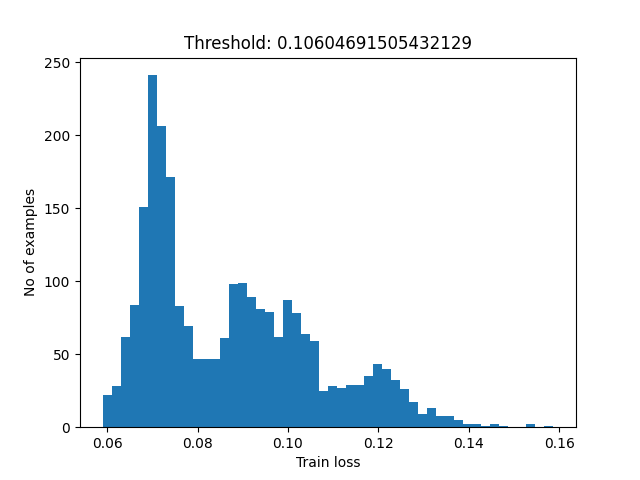
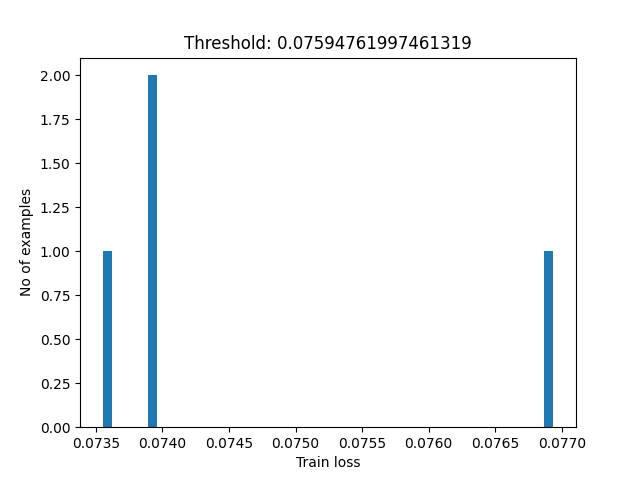
Run across all data

diff --git a/data_processing/data_transformation.py b/data_processing/data_transformation.py
@@ -1,19 +1,27 @@
 import glob
+import random
 from pyspark.sql import SparkSession
 from pyspark.sql.functions import *
 from pyspark.sql.types import FloatType
 from pyspark.ml.feature import MinMaxScaler, VectorAssembler
 from pyspark.ml import Pipeline
 from pyspark.ml.feature import OneHotEncoder, StringIndexer
+from pyspark.ml.functions import vector_to_array
 
-files = [x for x in glob.glob('/data/*.parquet')]
+files = [x for x in glob.glob('/data/raw_data/*.parquet')]
+
+# Shuffle files
+random.shuffle(files)
+
+with open('/data/processed_files.txt', 'w') as f:
+    for line in files[0:6]:
+        f.write(f"{line}\n")
 
 spark = SparkSession.builder \
-    .master("local") \
     .appName("NYC") \
     .getOrCreate()
 
-parDF = spark.read.parquet(files[1])
+parDF = spark.read.parquet(*files[0:6])
 
 keep = ['tpep_dropoff_datetime', 'tpep_pickup_datetime',
         'PULocationID', 'DOLocationID',
@@ -36,7 +44,8 @@ parDF = parDF.filter(parDF['trip_distance'] < 3).filter(parDF['trip_duration'].b
 # Extract hour and weekday from timestamp
 parDF = parDF.withColumn('pickup_hour', hour('tpep_pickup_datetime'))
 parDF = parDF.withColumn('pickup_weekday', dayofweek('tpep_pickup_datetime'))
-# parDF = parDF.withColumn('pickup_month', month('tpep_pickup_datetime'))
+# Parition data by month
+parDF = parDF.withColumn('pickup_month', month('tpep_pickup_datetime'))
 
 # Don't need start/finish timestamp so drop
 drop_cols = ['tpep_dropoff_datetime', 'tpep_pickup_datetime']
@@ -50,7 +59,7 @@ journey_df = parDF.groupBy('journey').count()
 
 # This needs to be saved as a lookup for use during inference
 journey_df = journey_df.withColumn('journeyFreq', format_number(journey_df['count'] / parDF.count(), 8))
-journey_df.write..parquet('/data/journey_counts.parquet')
+journey_df.write.parquet('/data/journey_counts.parquet')
 
 
 # Convert Journey ID to numeric value
@@ -74,7 +83,10 @@ assembler = [VectorAssembler(inputCols=[col], outputCol=col + '_vec') for col in
 scale = [MinMaxScaler(inputCol=col + '_vec', outputCol=col + '_scaled') for col in to_scale]
 pipe = Pipeline(stages=assembler + scale)
 
-parDF = pipe.fit(parDF).transform(parDF)
+scale_model = pipe.fit(parDF)
+scale_model.save("/data/pipelines/scale_pipeline")
+
+parDF = scale_model.transform(parDF)
 
 # Drop unwanted columns
 parDF = parDF.drop(*[col + '_vec' for col in to_scale])
@@ -92,14 +104,18 @@ encoders = [OneHotEncoder(dropLast=False, inputCol=indexer.getOutputCol(),
 assembler = VectorAssembler(inputCols=[encoder.getOutputCol() for encoder in encoders], outputCol="features")
 pipeline = Pipeline(stages=indexers + encoders + [assembler])
 
-parDF = pipeline.fit(parDF).transform(parDF)
+one_hot_model = pipeline.fit(parDF)
+one_hot_model.save("/data/pipelines/one_hot_pipeline")
+
+parDF = one_hot_model.transform(parDF)
+
+row = parDF.select("features").head()
+no_features = [i.size for i in row(0).asDict()][0]
 
 # Drop unwanted columns
 drop_cols_1 = [col + '_indexed' for col in one_hot]
 drop_cols_2 = [col + '_indexed_encoded' for col in one_hot]
 
-# Use weekday to partition data
-one_hot.remove('pickup_weekday')
 drop_cols_3 = drop_cols_1 + drop_cols_2 + to_scale + one_hot
 parDF = parDF.drop(*drop_cols_3)
 
@@ -107,7 +123,7 @@ parDF = parDF.drop(*drop_cols_3)
 firstelement = udf(lambda v: float(v[0]), FloatType())
 
 for c in parDF.columns:
-    if c != 'journeyFreq' and c != 'features' and c != 'pickup_weekday' and c != 'features':
+    if c != 'journeyFreq' and c != 'features' and c != 'pickup_month' and c != 'features':
         parDF = parDF.withColumn(c, firstelement(c))
 
 # One Hot encoding produces sparse vector, convert to array/
@@ -115,8 +131,8 @@ for c in parDF.columns:
 parDF = parDF.withColumn("features", vector_to_array('features'))
 
 # Extract values from array and store as columns
-parDF = parDF.select(*parDF.columns, *[parDF.features[i].cast(FloatType()) for i in range(55)])
+parDF = parDF.select(*parDF.columns, *[parDF.features[i].cast(FloatType()) for i in range(no_features)])
 parDF = parDF.drop('features')
 
 # Write data and partition by weekday
-parDF.write.partitionBy("pickup_weekday").parquet('/data/parDF.parquet')
+parDF.write.partitionBy("pickup_month").parquet('/data/parDF.parquet')

diff --git a/scripts/model_training.py b/scripts/model_training.py
@@ -24,6 +24,20 @@ for directory, subdirlist, filelist in os.walk(root_dir):
 # Split files into train test
 train_file_names, test_file_names = train_test_split(files, test_size=0.2, random_state=42)
 
+test_file_names, val_file_names = train_test_split(test_file_names, test_size=0.2, random_state=42)
+
+with open('data/train_files.txt', 'w') as f:
+    for line in train_file_names:
+        f.write(f"{line}\n")
+
+with open('data/test_files.txt', 'w') as f:
+    for line in test_file_names:
+        f.write(f"{line}\n")
+
+with open('data/val_files.txt', 'w') as f:
+    for line in val_file_names:
+        f.write(f"{line}\n")
+
 
 # Read in files as data generator as too large to fit in memeory
 def data_generator(file_list, b_size=1):
@@ -35,7 +49,7 @@ def data_generator(file_list, b_size=1):
         else:
             file = file_list[i]
             tmp = pd.read_parquet(file.decode('utf-8'), engine='pyarrow')
-            dta = np.asarray(tmp).reshape(len(tmp), 1, 64)
+            dta = np.asarray(tmp).reshape(len(tmp), 1, 56)
             yield dta, dta
             i = i + 1
 
@@ -44,11 +58,11 @@ def data_generator(file_list, b_size=1):
 batch_size = 1
 train_dataset = tf.data.Dataset.from_generator(data_generator, args=[train_file_names, batch_size],
                                                output_types=(tf.float32, tf.float32),
-                                               output_shapes=((None, 1, 64), (None, 1, 64)))
+                                               output_shapes=((None, 1, 56), (None, 1, 56)))
 
 test_dataset = tf.data.Dataset.from_generator(data_generator, args=[test_file_names, batch_size],
                                               output_types=(tf.float32, tf.float32),
-                                              output_shapes=((None, 1, 64), (None, 1, 64)))
+                                              output_shapes=((None, 1, 56), (None, 1, 56)))
 
 latent_dim = 8
 autoencoder = Autoencoder(latent_dim)
@@ -65,7 +79,7 @@ cp = ModelCheckpoint(filepath="autoencoder_fraud.tf",
 early_stop = EarlyStopping(
     monitor='val_loss',
     min_delta=0.001,
-    patience=10,
+    patience=3,
     verbose=1,
     mode='min',
     restore_best_weights=True)

diff --git a/scripts/reconstruction_error.py b/scripts/reconstruction_error.py
@@ -2,28 +2,38 @@ import tensorflow as tf
 import pandas as pd
 import numpy as np
 import matplotlib.pyplot as plt
+import logging
+import random
+
+logging.basicConfig(level=logging.INFO)
+logger = logging.getLogger()
 
 autoencoder = tf.keras.models.load_model('autoencoder_fraud.tf/')
 
-file = '/data/parDF.parquet/pickup_weekday=6/part-00002-63bfa723-e7d3-4d13-9320-40b06dbd7fc2.c000.snappy.parquet'
+with open('data/val_files.txt', 'r') as f:
+    files = f.read().split("\n")
+
+file = str(random.choice(files))
+
+logger.info(f'Chosen validation file: {file}')
 
 tmp = pd.read_parquet(file, engine='pyarrow')
-dta = np.asarray(tmp).reshape(len(tmp), 1, 64).astype('float32')
+dta = np.asarray(tmp).reshape(len(tmp), 1, 56).astype('float32')
 
 encoded_data = autoencoder.encoder(dta).numpy()
 decoded_data = autoencoder.decoder(encoded_data).numpy()
 
 plt.plot(dta[0][0], 'b')
 plt.plot(decoded_data[0][0], 'r')
-plt.fill_between(np.arange(64), decoded_data[0][0], dta[0][0], color='lightcoral')
+plt.fill_between(np.arange(56), decoded_data[0][0], dta[0][0], color='lightcoral')
 plt.legend(labels=["Input", "Reconstruction", "Error"])
 plt.title('Input vs Reconstruction')
 plt.savefig('../graphs/InputReconstruction.png')
 
 plt.clf()
 
-reconstructions = autoencoder.predict(np.reshape(dta[0:2500], (2500, 1, 64)))
-train_loss = tf.keras.losses.mae(reconstructions, np.reshape(dta[0:2500], (2500, 1, 64)))
+reconstructions = autoencoder.predict(np.reshape(dta[0:len(tmp)], (len(tmp), 1, 56)))
+train_loss = tf.keras.losses.mae(reconstructions, np.reshape(dta[0:len(tmp)], (len(tmp), 1, 56)))
 
 # Calculate threshold as mean +1 std.
 threshold = np.mean(train_loss) + np.std(train_loss)

diff --git a/scripts/autoencoder.py b/scripts/autoencoder.py
@@ -9,7 +9,7 @@ class Autoencoder(Model):
         self.latent_dim = latent_dim
 
         self.encoder = tf.keras.Sequential([
-            layers.Dense(32, activation='relu', input_shape=(1, 64)),
+            layers.Dense(32, activation='relu', input_shape=(1, 56)),
             layers.Dropout(0.2),
             layers.Dense(16, activation='relu'),
             layers.Dense(latent_dim, activation='relu'),
@@ -19,7 +19,7 @@ class Autoencoder(Model):
             layers.Dense(16, activation='relu'),
             layers.Dropout(0.2),
             layers.Dense(32, activation='relu'),
-            layers.Dense(64, activation='sigmoid')
+            layers.Dense(56, activation='sigmoid')
         ])
 
     def call(self, x):

diff --git a/README.md b/README.md
@@ -37,6 +37,11 @@ local browser using the ```0.0.0.0``` ip address.
 Data can be downloaded using the scripts found in [scripts](scripts/data_download) directory. These are the 
 same as those detailed in this [repo](https://github.com/toddwschneider/nyc-taxi-data)
 
+### Data Processing
+```shell
+spark-submit --master spark://spark-master:7077 --driver-memory 3G --executor-memory 3G /scripts/data_transformation.py
+```
+
 ## Anomaly Detection
 
 A simple Autoencoder is used to detect anomalous taxi journeys. The architecture and training 
